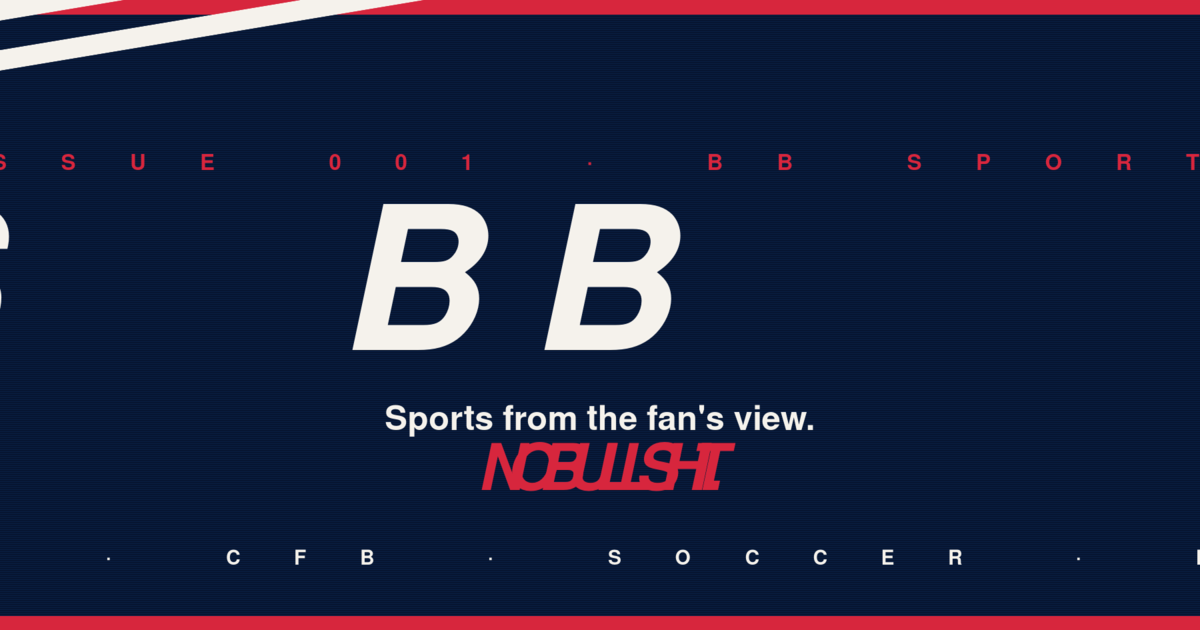
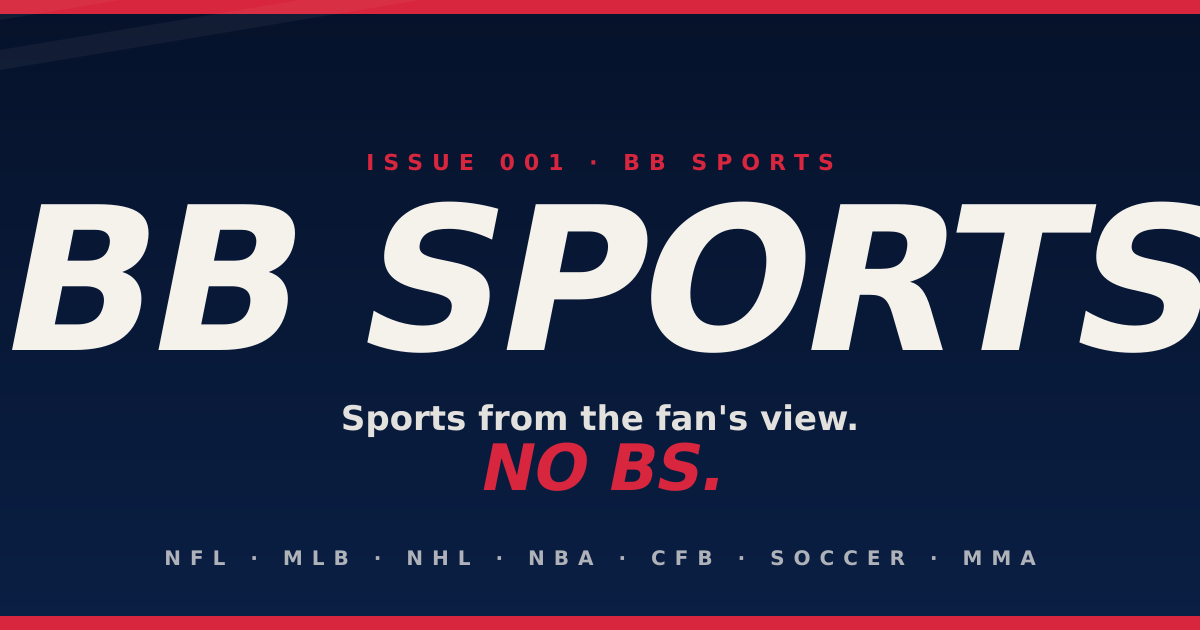
fix(brand): OG image + about page consistency with v1 launch
The OG card linked from layout.tsx still shipped the old "NO BULLSHIT"
tagline and the old NFL/NHL/CFB/SOCCER/NBA/MMA coverage strip, leaking
the pre-launch brand to every social preview.

- public/og.svg: tagline → "NO BS.", coverage strip → "NFL · MLB · NHL ·
  NBA · CFB · SOCCER · MMA" (now reflects the rankings universe + the
  new sport order from /admin/site).
- public/og.png: regenerated from the updated SVG via sharp at 1200×630.
- scripts/render-og.mjs: tiny one-off renderer kept in-repo so the next
  copy change to the OG card is a one-line `node scripts/render-og.mjs`.
- app/(site)/about/page.tsx: "What I'll cover" list adds MLB (the new
  rankings universe includes it; the about page is what readers see when
  they hit the bio after the new homepage) and links the franchise
  rankings page so the cross-link from /about → /rankings exists.

Verification: 52/52 tests pass · lint clean · next build green ·
new og.png renders the corrected tagline at 1200×630.

diff --git a/app/(site)/about/page.tsx b/app/(site)/about/page.tsx
@@ -96,7 +96,7 @@ export default async function AboutPage() {
           </p>
 
           <h2>What I’ll cover</h2>
-          <p>In rough priority order: <strong>NFL, NHL, college football, soccer, NBA, MMA.</strong> Lean into college early because the season is right there and college sports change fast enough that there’s always something to argue about.</p>
+          <p>In rough priority order: <strong>NFL, NHL, college football, soccer, NBA, MLB, MMA.</strong> Lean into college early because the season is right there and college sports change fast enough that there’s always something to argue about. The <Link href="/rankings">franchise rankings</Link> page covers all four major North American leagues (NFL / MLB / NHL / NBA), ranked by me, with the reasoning open for argument.</p>
 
           <h2>Where this is going</h2>
           <p>
